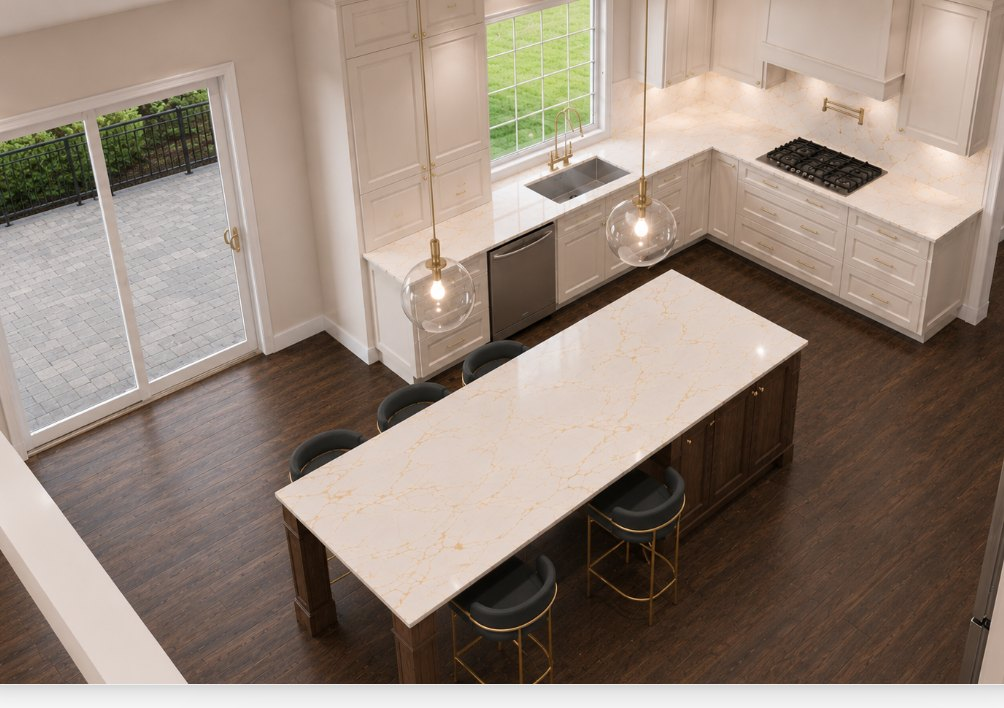
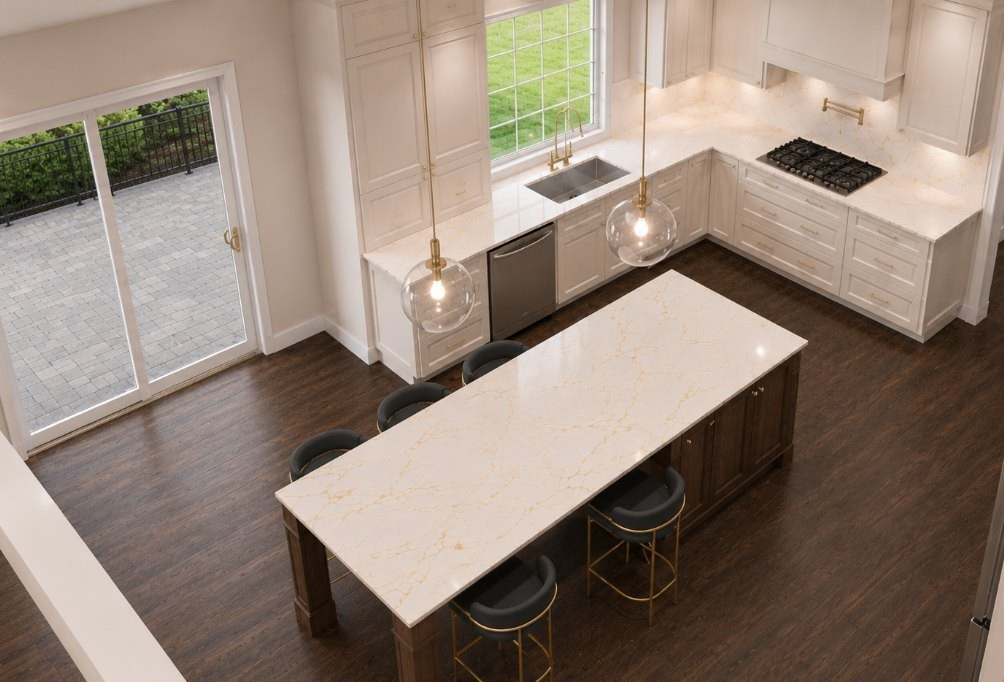
Test: crop white strip from rendering 2; tighter section spacing; section spacing classes for the editor

diff --git a/index.html b/index.html
@@ -42,7 +42,7 @@
   @media (max-width:420px) { .brand-word { width:150px; } .brand-mark { width:32px; } }
   nav a { margin-left:28px; text-decoration:none; font-size:14px; font-weight:500; letter-spacing:.08em; color:var(--soft); }
   nav a:hover { color:var(--text); }
-  .hero { padding:40px 0 90px; text-align:center; }
+  .hero { padding:40px 0 72px; text-align:center; }
   .eyebrow { font-size:13px; font-weight:600; letter-spacing:.22em; text-transform:uppercase; color:var(--acc); margin:0 0 18px; }
   h1 { font:400 clamp(40px,6vw,92px)/1.02 "Bodoni Moda", serif; margin:0 auto; max-width:16ch; }
   h1 em { font-style:italic; }
@@ -51,7 +51,7 @@
   .btn:hover { background:transparent; color:var(--text); }
   .btn.ghost { background:transparent; color:var(--text); } .btn.ghost:hover { background:var(--text); color:var(--bg); }
   /* signature: drag from drawing to rendering */
-  section { padding:clamp(64px, 8vw, 120px) 0; border-top:1px solid var(--rule); }
+  section { padding:clamp(48px, 5.5vw, 84px) 0; border-top:1px solid var(--rule); }
   h2 { font:400 clamp(30px,3.6vw,46px)/1.1 "Bodoni Moda", serif; margin:0 0 12px; }
   h2 em { font-style:italic; color:var(--acc); }
   .intro { color:var(--soft); max-width:52ch; margin:0 0 48px; text-wrap:balance; }
@@ -270,7 +270,7 @@
   }
   @media (max-width:600px) { .agree form { padding:28px 20px 22px; } .agree h2 { font-size:26px; } }
   @media (max-width:880px) {
-    .pkgs, .steps { grid-template-columns:1fr; } nav { display:none; } section { padding:64px 0; }
+    .pkgs, .steps { grid-template-columns:1fr; } nav { display:none; } section { padding:48px 0; }
   }
 </style>
 <link rel="stylesheet" href="site.css"></head>
@@ -303,7 +303,7 @@
     <li><img src="img/work/project1-floor-plan.png" data-full="img/work/project1-floor-plan-full.png" width="1200" height="800" loading="lazy" alt="The floor plan for the new kitchen, with cabinet sizes and measurements."><span class="tag">Floor plan &amp; measurements</span></li>
     <li><img src="img/work/project1-layout.png" data-full="img/work/project1-layout-full.png" width="1200" height="800" loading="lazy" alt="A 3D line drawing of the new layout: the wall between the kitchen and dining room removed, a new island, and a relocated door."><span class="tag">New layout</span></li>
     <li><img src="img/work/project1-rendering-1.jpg" data-full="img/work/project1-rendering-1-full.jpg" width="1672" height="1115" loading="lazy" alt="Rendering from above: white cabinetry, a long stone island with a dark wood base, glass pendants, and a built-in buffet by the dining table."><span class="tag">Rendering</span></li>
-    <li><img src="img/work/project1-rendering-2.jpg" data-full="img/work/project1-rendering-2-full.jpg" width="1062" height="708" loading="lazy" alt="Rendering of the island and sink wall, with the patio door on the left."><span class="tag">Rendering</span></li>
+    <li><img src="img/work/project1-rendering-2.jpg" data-full="img/work/project1-rendering-2-full.jpg" width="1062" height="682" loading="lazy" alt="Rendering of the island and sink wall, with the patio door on the left."><span class="tag">Rendering</span></li>
     <li><img src="img/work/project1-rendering-3.jpg" data-full="img/work/project1-rendering-3-full.jpg" width="1022" height="681" loading="lazy" alt="Rendering from the dining side: the island with counter stools, the range hood, and built-in ovens."><span class="tag">Rendering</span></li>
   </ul>
   <a class="designer-link steps-more" href="work.html">See more of our work &rarr;</a>

diff --git a/work.html b/work.html
@@ -94,7 +94,7 @@
         <li><img src="img/work/project1-floor-plan.png" data-full="img/work/project1-floor-plan-full.png" width="1200" height="800" loading="lazy" alt="The floor plan for the new kitchen, with cabinet sizes and measurements."><span class="tag">Floor plan</span></li>
         <li><img src="img/work/project1-layout.png" data-full="img/work/project1-layout-full.png" width="1200" height="800" loading="lazy" alt="A 3D line drawing of the new layout: the wall between the kitchen and dining room removed, a new island, and a relocated door."><span class="tag">New layout</span></li>
         <li><img src="img/work/project1-rendering-1.jpg" data-full="img/work/project1-rendering-1-full.jpg" width="1672" height="1115" loading="lazy" alt="Rendering from above: white cabinetry, a long stone island with a dark wood base, glass pendants, and a built-in buffet by the dining table."><span class="tag">Rendering</span></li>
-        <li><img src="img/work/project1-rendering-2.jpg" data-full="img/work/project1-rendering-2-full.jpg" width="1062" height="708" loading="lazy" alt="Rendering of the island and sink wall, with the patio door on the left."><span class="tag">Rendering</span></li>
+        <li><img src="img/work/project1-rendering-2.jpg" data-full="img/work/project1-rendering-2-full.jpg" width="1062" height="682" loading="lazy" alt="Rendering of the island and sink wall, with the patio door on the left."><span class="tag">Rendering</span></li>
         <li><img src="img/work/project1-rendering-3.jpg" data-full="img/work/project1-rendering-3-full.jpg" width="1022" height="681" loading="lazy" alt="Rendering from the dining side: the island with counter stools, the range hood, and built-in ovens."><span class="tag">Rendering</span></li>
       </ul>
     </article>

diff --git a/site.css b/site.css
@@ -47,3 +47,7 @@ dialog.lightbox::backdrop { background:transparent; }
 
 /* Keep phone numbers on one line */
 a[href^="tel:"] { white-space:nowrap; }
+
+/* Section spacing, set per section in the page editor */
+section.space-tight { padding-top:clamp(28px, 3vw, 44px); padding-bottom:clamp(28px, 3vw, 44px); }
+section.space-roomy { padding-top:clamp(80px, 9vw, 136px); padding-bottom:clamp(80px, 9vw, 136px); }
